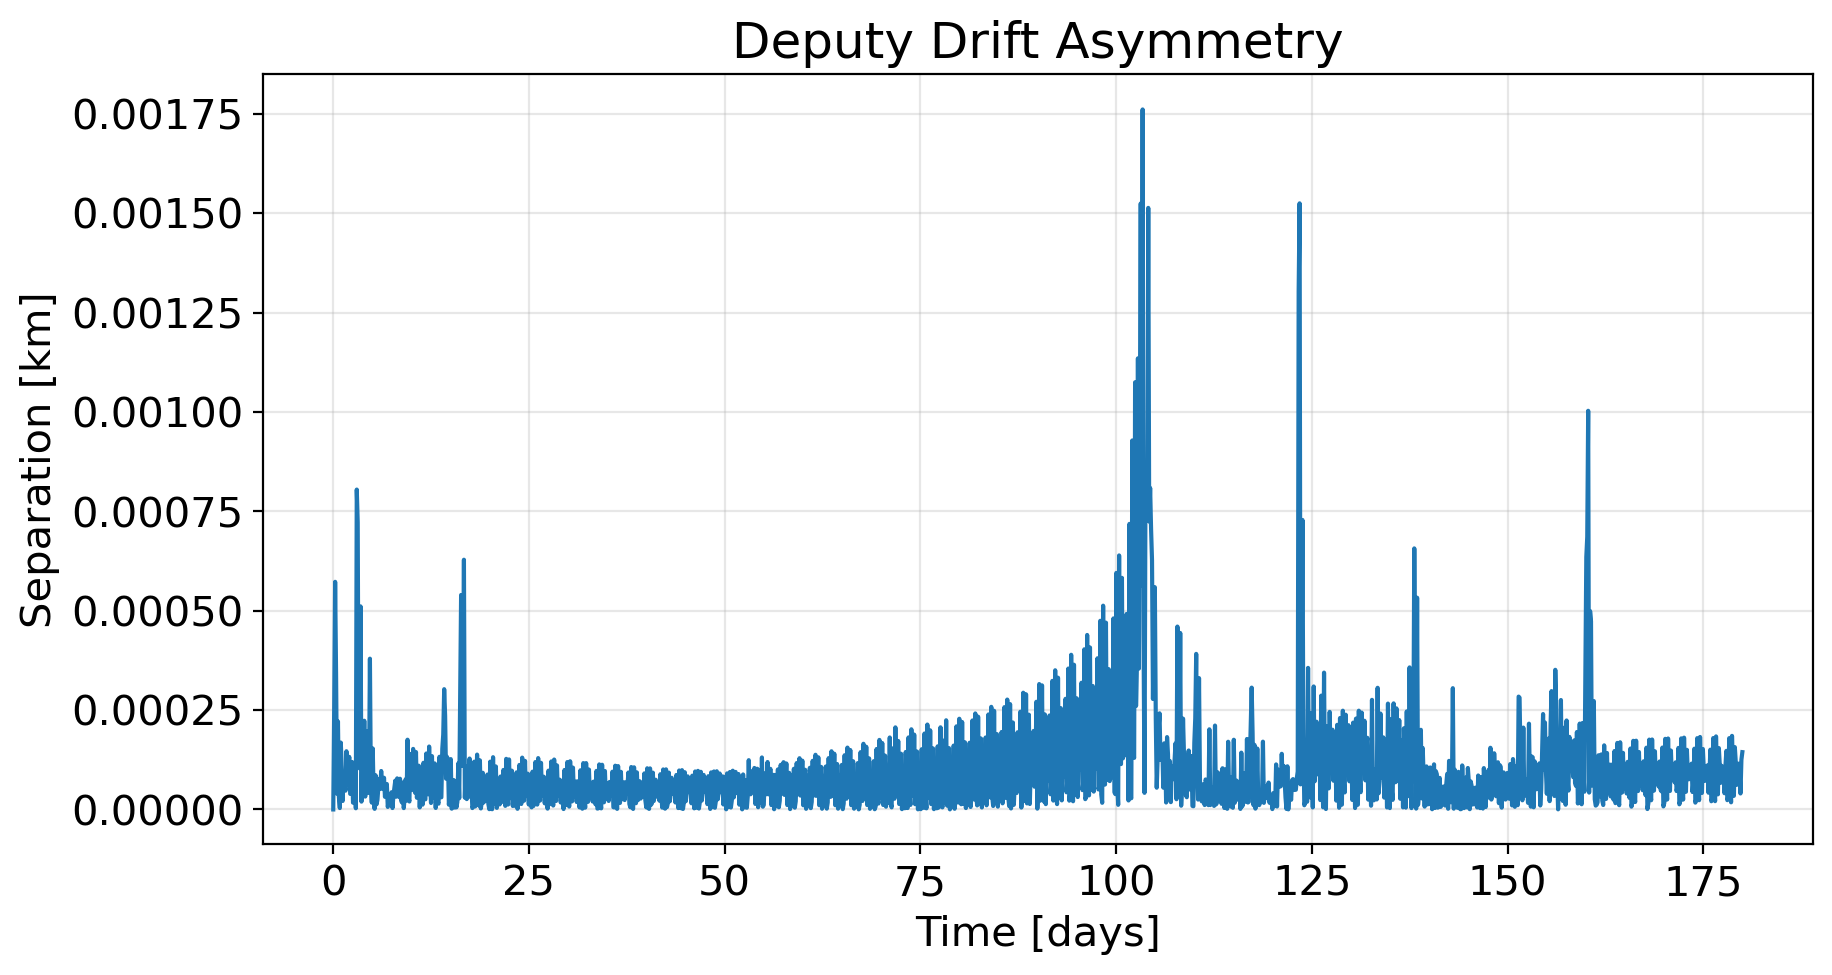
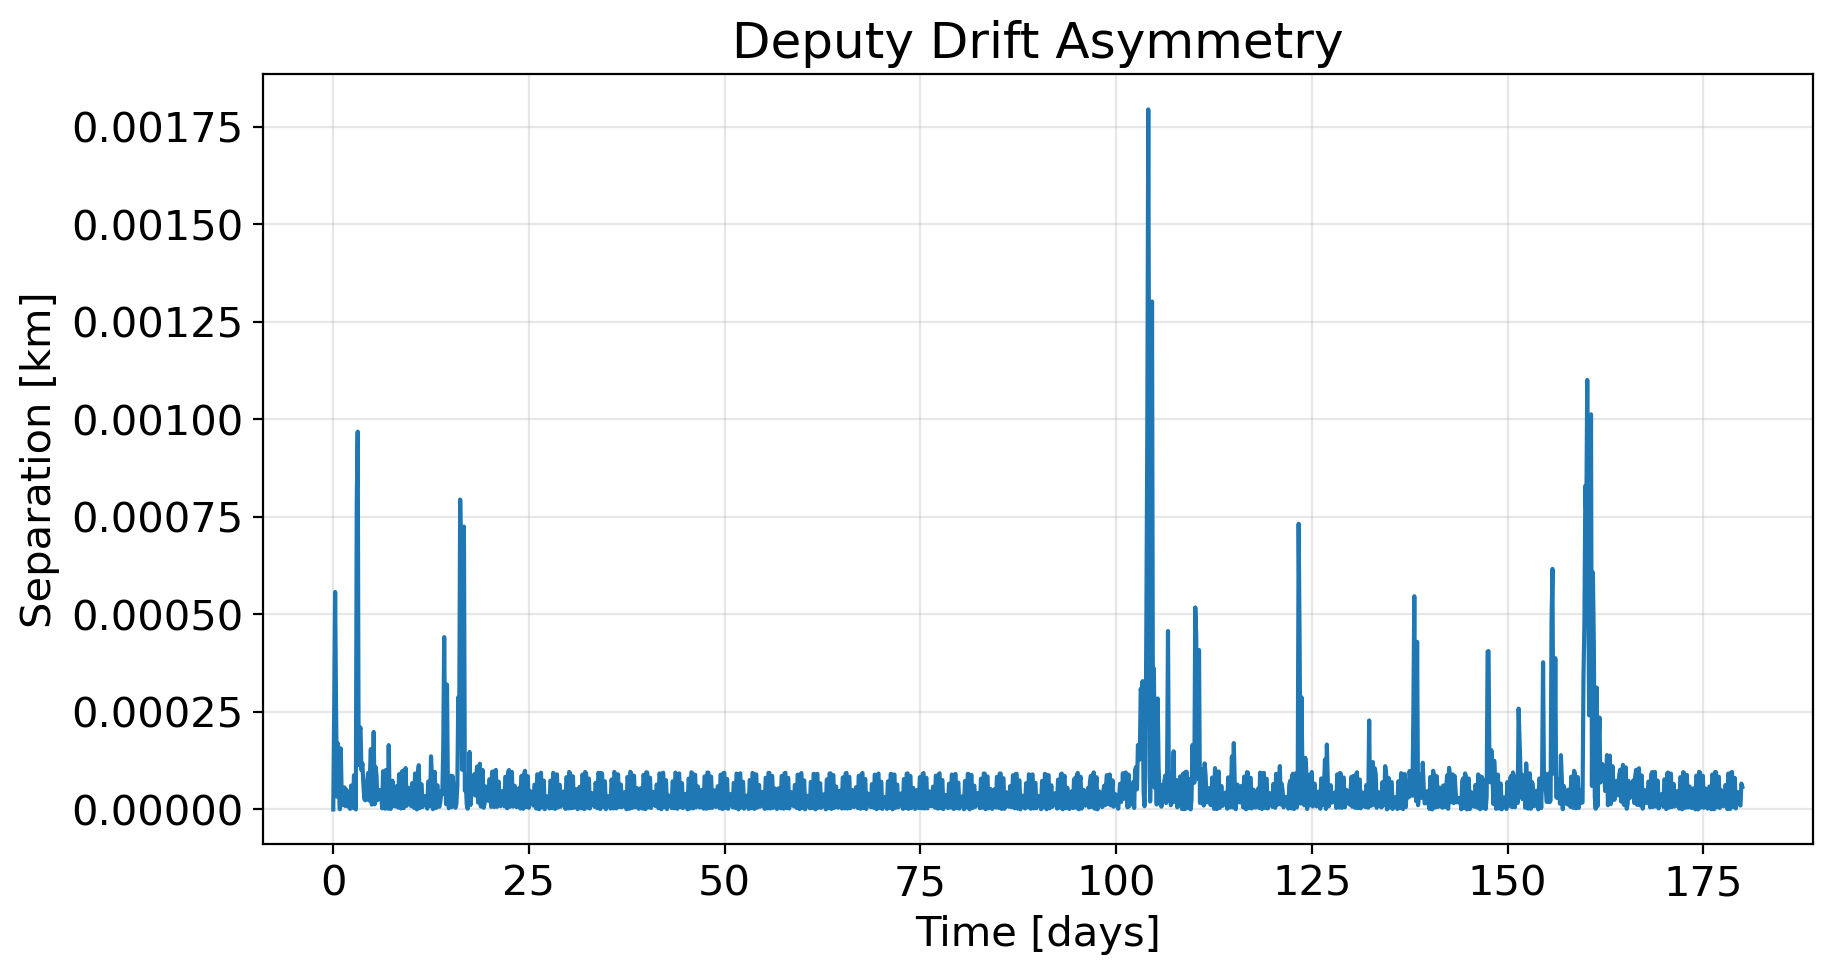
fixed impulsive maneuvers, updated figures accordingly

diff --git a/term_project/src/propagate.py b/term_project/src/propagate.py
@@ -1803,105 +1803,74 @@ def run_propagation_dsst_with_sk(times, init_date, forces, chief_orbit,
                 x_tgt = target_roes[k]
                 a_dep = float(dep_kep.getA())
                 n_dep = np.sqrt(mu / a_dep**3)
+                v_dep = n_dep * a_dep  # FIXED: Orbital velocity for converting dimensionless to m/s
 
                 # Dimensional errors [m]
                 err = x_now - x_tgt
-                err_da  = err[0]        # [m] = a × δ(a/a)
-                err_dl  = err[2]        # [m] = a × δλ
-                err_dix = err[3]        # [m] = a × δix
-                err_diy = err[4]        # [m] = a × δiy
-                err_dex = err[5]        # [m] = a × δex
-                err_dey = err[6]        # [m] = a × δey
-
-                # ════════════════════════════════════════════════════════
-                # TANGENTIAL BURN: Controls δa (and δe as side-effect)
-                #
-                # Strategy: The DOMINANT error is δλ (along-track drift).
-                # We correct it by establishing a temporary δa offset that
-                # creates drift back toward the target.
-                #
-                # Required δa offset to zero δλ in time τ:
-                #   Δ(δa/a) = -δλ_error / ((3/2) n × τ)
-                #
-                # Then the tangential burn to create this δa:
-                #   δvT = (n/2) × Δ(δa/a) × a   ... NO!
-                #   δvT = (n/2) × Δ(δa/a)       [m/s, since B gives δ(a/a) = 2δvT/n]
-                # ════════════════════════════════════════════════════════
-
-                # Time horizon to correct δλ — shorter = more aggressive
-                tau = 1.0 * T_orb   # correct over 1 orbit
+                err_da  = err[0]
+                err_dl  = err[2]
+                err_dix = err[3]
+                err_diy = err[4]
+                err_dex = err[5]
+                err_dey = err[6]
 
                 # Convert errors to dimensionless
-                err_da_dimless = err_da / a_dep      # δ(a/a)
-                err_dl_dimless = err_dl / a_dep      # δλ [rad]
+                err_da_dimless  = err_da / a_dep
+                err_dl_dimless  = err_dl / a_dep
+                err_dix_dimless = err_dix / a_dep
+                err_diy_dimless = err_diy / a_dep
+                err_dex_dimless = err_dex / a_dep
+                err_dey_dimless = err_dey / a_dep
 
-                # Desired δa correction = fix current δa error + extra to drift δλ back
-                nu_drift = -(3.0 / 2.0) * n_dep     # along-track drift rate [rad/s per δa/a]
+                # ════════════════════════════════════════════════════════
+                # TANGENTIAL BURN: Controls δa and δλ
+                # ════════════════════════════════════════════════════════
+                tau = 1.0 * T_orb   # correct over 1 orbit
+                nu_drift = -(3.0 / 2.0) * n_dep
                 
                 if abs(nu_drift * tau) > 1e-12:
                     da_for_dl = -err_dl_dimless / (nu_drift * tau)
                 else:
                     da_for_dl = 0.0
 
-                # Total desired δ(a/a) change this step
                 da_total_dimless = -err_da_dimless + da_for_dl
-
-                # Apply gain (don't try to fix everything at once)
                 gain_at = 0.5 * min(dt_step / T_orb, 1.0)
                 da_cmd = gain_at * da_total_dimless
 
-                # Convert to tangential burn: δ(a/a) = (2/n)×δvT → δvT = n×δ(a/a)/2
-                dvT = n_dep * da_cmd / 2.0
+                # FIXED: Multiply by v_dep instead of n_dep
+                dvT = v_dep * da_cmd / 2.0
 
                 # ════════════════════════════════════════════════════════
                 # NORMAL BURN: Controls δix, δiy
-                #
-                # From B matrix: δix = cos(u)×δvN/n, δiy = sin(u)×δvN/n
-                # We want to reduce the inclination vector error.
-                # At the current u, the achievable correction is:
-                #   δvN → Δδix = cos(u)×δvN/n, Δδiy = sin(u)×δvN/n
-                #
-                # Optimal: project the error onto the achievable direction
                 # ════════════════════════════════════════════════════════
                 argp_d = float(dep_kep.getPerigeeArgument())
                 M_d    = float(dep_kep.getMeanAnomaly())
                 u_now  = argp_d + M_d
+                sin_u  = np.sin(u_now)
+                cos_u  = np.cos(u_now)
 
-                sin_u = np.sin(u_now)
-                cos_u = np.cos(u_now)
-
-                err_dix_dimless = err_dix / a_dep
-                err_diy_dimless = err_diy / a_dep
-
-                # Project inclination error onto the achievable direction at this u
-                # Achievable direction: [cos(u), sin(u)] in (δix, δiy) space
-                # Projection: component of error along [cos(u), sin(u)]
-                proj = err_dix_dimless * cos_u + err_diy_dimless * sin_u
-
-                # Gain for normal direction
+                proj_i = err_dix_dimless * cos_u + err_diy_dimless * sin_u
                 gain_n = 0.3 * min(dt_step / T_orb, 1.0)
-                dvN_needed = -gain_n * n_dep * proj  # δvN = n × δi_proj, with sign
+                
+                # FIXED: Multiply by v_dep instead of n_dep
+                dvN_needed = -gain_n * v_dep * proj_i
+
+                # ════════════════════════════════════════════════════════
+                # RADIAL BURN (ADDED): Controls δex, δey
+                # A Helix requires eccentricity control to maintain the radial bounds!
+                # ════════════════════════════════════════════════════════
+                # Achievable δe direction using RADIAL burn: [sin(u), -cos(u)]
+                proj_e = err_dex_dimless * sin_u - err_dey_dimless * cos_u
+                gain_e = 0.3 * min(dt_step / T_orb, 1.0)
+                
+                dvR_needed = -gain_e * v_dep * proj_e
 
                 # ════════════════════════════════════════════════════════
                 # ASSEMBLE AND APPLY
                 # ════════════════════════════════════════════════════════
-                dv_rtN = np.array([0.0, dvT, dvN_needed])
+                # Place dvR_needed in the 0th index for the Radial axis
+                dv_rtN = np.array([dvR_needed, dvT, dvN_needed])
                 dv_mag = np.linalg.norm(dv_rtN)
-
-                # Skip negligible burns
-                if dv_mag < min_dv:
-                    if track_power:
-                        r_dep = r_vec + dr
-                        v_dep = np.array([v_d.getX(), v_d.getY(), v_d.getZ()])
-                        dep_power[k].append(
-                            compute_solar_power(r_dep, r_sun, v_sc_eci=v_dep))
-                    continue
-
-                # Safety cap
-                max_dv_per_step = 0.5  # m/s
-                if dv_mag > max_dv_per_step:
-                    dv_rtN = dv_rtN * (max_dv_per_step / dv_mag)
-                    dv_mag = max_dv_per_step
 
                 # Apply burn
                 try:
@@ -2019,17 +1988,19 @@ def _apply_impulsive_burn(dep_prop, dep_orbit_mean, dv_rtN,
     sin_u = np.sin(u_m)
     cos_u = np.cos(u_m)
 
-    # B / n gives dimensionless ROE change per m/s of delta-v
+    # Orbital velocity is V = n * a. We divide by V to convert m/s to dimensionless.
+    v_orb = n * a
+
     # Row order: [δ(a/a), δȧ, δλ, δix, δiy, δex, δey]
     B_dimless = np.array([
-        [ 0.0,       2.0,      0.0    ],   # δ(a/a)  = (2/n)·δvT
+        [ 0.0,       2.0,      0.0    ],   # δ(a/a) = (2 / V)·δvT
         [ 0.0,       0.0,      0.0    ],   # δȧ (unaffected)
-        [-2.0,       0.0,      0.0    ],   # δλ = -(2/n)·δvR
-        [ 0.0,       0.0,      cos_u  ],   # δix = (cos u / n)·δvN
-        [ 0.0,       0.0,      sin_u  ],   # δiy = (sin u / n)·δvN
+        [-2.0,       0.0,      0.0    ],   # δλ = -(2 / V)·δvR
+        [ 0.0,       0.0,      cos_u  ],   # δix = (cos u / V)·δvN
+        [ 0.0,       0.0,      sin_u  ],   # δiy = (sin u / V)·δvN
         [ sin_u,     2*cos_u,  0.0    ],   # δex
         [-cos_u,     2*sin_u,  0.0    ],   # δey
-    ]) / n  # units: [s] per [m/s] → dimensionless
+    ]) / v_orb
 
     # ── Step 3: DIMENSIONLESS ROE change ──
     d_roe_dimless = B_dimless @ dv_rtN  # dimensionless δα vector
@@ -2382,10 +2353,15 @@ def run_propagation_dsst_pearls_sk(times, init_date, forces, chief_orbit,
                 # We want this to stay below ~500m (1/6 of deadband width)
                 de_threshold = 500.0    # [m] max allowed δe growth
                 di_threshold = 500.0    # [m] max allowed δi growth
+                # Orbital velocity for dimension conversion
+                v_dep = n_dep * a_dep  
 
                 # ════════════════════════════════════════════════════
-                # PRIORITY 1: Deadband longitude control (same as before)
+                # PRIORITY 1: Deadband longitude control
                 # ════════════════════════════════════════════════════
+                dvT, dvR, dvN = 0.0, 0.0, 0.0
+                burn_reason = None
+
                 if sign_T > 0:
                     exceeded_far  = T_now > T_max_m
                     exceeded_near = T_now < T_min_m
@@ -2396,116 +2372,66 @@ def run_propagation_dsst_pearls_sk(times, init_date, forces, chief_orbit,
                 boundary_near = T_min_m if sign_T > 0 else -T_min_m
                 boundary_far  = T_max_m if sign_T > 0 else -T_max_m
 
-                dvT = 0.0
-                dvN = 0.0
-                burn_reason = None
-
                 if exceeded_far or exceeded_near:
-                    # Aim for opposite boundary
-                    if exceeded_far:
-                        T_target = boundary_near
-                        burn_reason = "FAR"
-                    else:
-                        T_target = boundary_far
-                        burn_reason = "NEAR"
+                    T_target = boundary_near if exceeded_far else boundary_far
+                    burn_reason = "FAR" if exceeded_far else "NEAR"
 
                     T_dot_desired = (T_target - T_now) / tau_drift
                     da_target_dimless = -T_dot_desired / ((3.0 / 2.0) * n_dep * a_dep)
                     da_now_dimless = da_now / a_dep
                     delta_da_dimless = da_target_dimless - da_now_dimless
-                    dvT = (n_dep / 2.0) * delta_da_dimless
+                    
+                    # FIXED: Multiplied by v_dep (n * a) instead of just n
+                    dvT = (v_dep / 2.0) * delta_da_dimless
 
                 # ════════════════════════════════════════════════════
-                # PRIORITY 2: Eccentricity vector maintenance
-                #
-                # From B-matrix: a tangential burn at argument of
-                # latitude u changes δe as:
-                #   Δ(δex) = (2cos u / n) × δvT
-                #   Δ(δey) = (2sin u / n) × δvT
-                #
-                # But we don't want to disturb δa (which controls δλ).
-                # Solution: use PAIRED burns at u and u+π that cancel
-                # in δa but add in δe. However, this requires waiting
-                # for the right u.
-                #
-                # Simpler approach for a deadband controller:
-                # Accept that tangential burns for δa also affect δe,
-                # and add a SEPARATE normal correction for δi.
-                # For δe, add a small correction when the longitude
-                # burn fires (it's already changing δe anyway).
-                #
-                # Even simpler: just correct δe/δi with small
-                # proportional feedback whenever they exceed threshold,
-                # accepting the small δa side-effect.
+                # PRIORITY 2: Eccentricity vector maintenance (Decoupled)
+                # Using RADIAL burns. Radial burns change e via sin(u) 
+                # and cos(u) but leave the mean semi-major axis untouched!
                 # ════════════════════════════════════════════════════
                 if de_err_mag > de_threshold and burn_reason is None:
-                    # Correct δe using tangential burn at current u
-                    # Effect: Δ(δex) = 2cos(u)×δvT/n, Δ(δey) = 2sin(u)×δvT/n
-                    # We project the error onto the achievable direction
                     argp_d = float(dep_kep.getPerigeeArgument())
                     M_d    = float(dep_kep.getMeanAnomaly())
                     u_now  = argp_d + M_d
-                    cos_u  = np.cos(u_now)
-                    sin_u  = np.sin(u_now)
+                    cos_u, sin_u = np.cos(u_now), np.sin(u_now)
 
-                    # Achievable δe direction at this u: [2cos(u), 2sin(u)]/n
-                    # Project error onto this direction
                     err_dex_dimless = err_dex / a_dep
                     err_dey_dimless = err_dey / a_dep
-                    proj_e = err_dex_dimless * cos_u + err_dey_dimless * sin_u
+                    
+                    # Achievable δe direction using RADIAL burn: [sin(u), -cos(u)] / V
+                    proj_e_radial = err_dex_dimless * sin_u - err_dey_dimless * cos_u
 
-                    # Gain: correct 30% of projected error
                     gain_e = 0.3
-                    dvT_e = -(gain_e * n_dep * proj_e) / 2.0
-
-                    dvT += dvT_e
-                    burn_reason = "δe"
+                    # FIXED: Velocity scaling
+                    dvR = -(gain_e * v_dep * proj_e_radial)
+                    burn_reason = "δe_radial"
 
                 # ════════════════════════════════════════════════════
                 # PRIORITY 3: Inclination vector maintenance
-                #
-                # Normal burns at argument of latitude u:
-                #   Δ(δix) = cos(u) × δvN / n
-                #   Δ(δiy) = sin(u) × δvN / n
-                #
-                # Project inclination error onto achievable direction.
                 # ════════════════════════════════════════════════════
                 if di_err_mag > di_threshold:
                     argp_d = float(dep_kep.getPerigeeArgument())
                     M_d    = float(dep_kep.getMeanAnomaly())
                     u_now  = argp_d + M_d
-                    cos_u  = np.cos(u_now)
-                    sin_u  = np.sin(u_now)
+                    cos_u, sin_u = np.cos(u_now), np.sin(u_now)
 
                     err_dix_dimless = err_dix / a_dep
                     err_diy_dimless = err_diy / a_dep
                     proj_i = err_dix_dimless * cos_u + err_diy_dimless * sin_u
 
                     gain_i = 0.3
-                    dvN = -(gain_i * n_dep * proj_i)
+                    # FIXED: Velocity scaling
+                    dvN = -(gain_i * v_dep * proj_i)
 
-                    if burn_reason is None:
-                        burn_reason = "δi"
-                    else:
-                        burn_reason += "+δi"
+                    burn_reason = "δi" if burn_reason is None else burn_reason + "+δi"
 
                 # ════════════════════════════════════════════════════
-                # ASSEMBLE AND APPLY
+                # ASSEMBLE AND APPLY (RTN Frame)
                 # ════════════════════════════════════════════════════
                 if burn_reason is not None:
-                    dv_rtN = np.array([0.0, dvT, dvN])
+                    # Notice dvR is placed in the first index (Radial)
+                    dv_rtN = np.array([dvR, dvT, dvN])
                     dv_mag = np.linalg.norm(dv_rtN)
-
-                    if dv_mag < min_dv:
-                        if track_power:
-                            r_dep = r_vec + dr
-                            v_dep = np.array([v_d.getX(), v_d.getY(),
-                                              v_d.getZ()])
-                            dep_power[k].append(
-                                compute_solar_power(r_dep, r_sun,
-                                                    v_sc_eci=v_dep))
-                        continue
-
                     max_dv = 0.5
                     if dv_mag > max_dv:
                         dv_rtN = dv_rtN * (max_dv / dv_mag)

diff --git a/term_project/src/designB_manuevers.py b/term_project/src/designB_manuevers.py
@@ -94,7 +94,7 @@ target_roes = [
 # T_orb  = 2 * np.pi * float(np.sqrt(a_c**3 / mu))
 # T_span = 5 * T_orb
 T_span = 6 * 30 * 24 * 3600
-N      = 1500 
+N      = 2000 
 times  = np.linspace(0, T_span, N)
 days   = times / 86400
 
